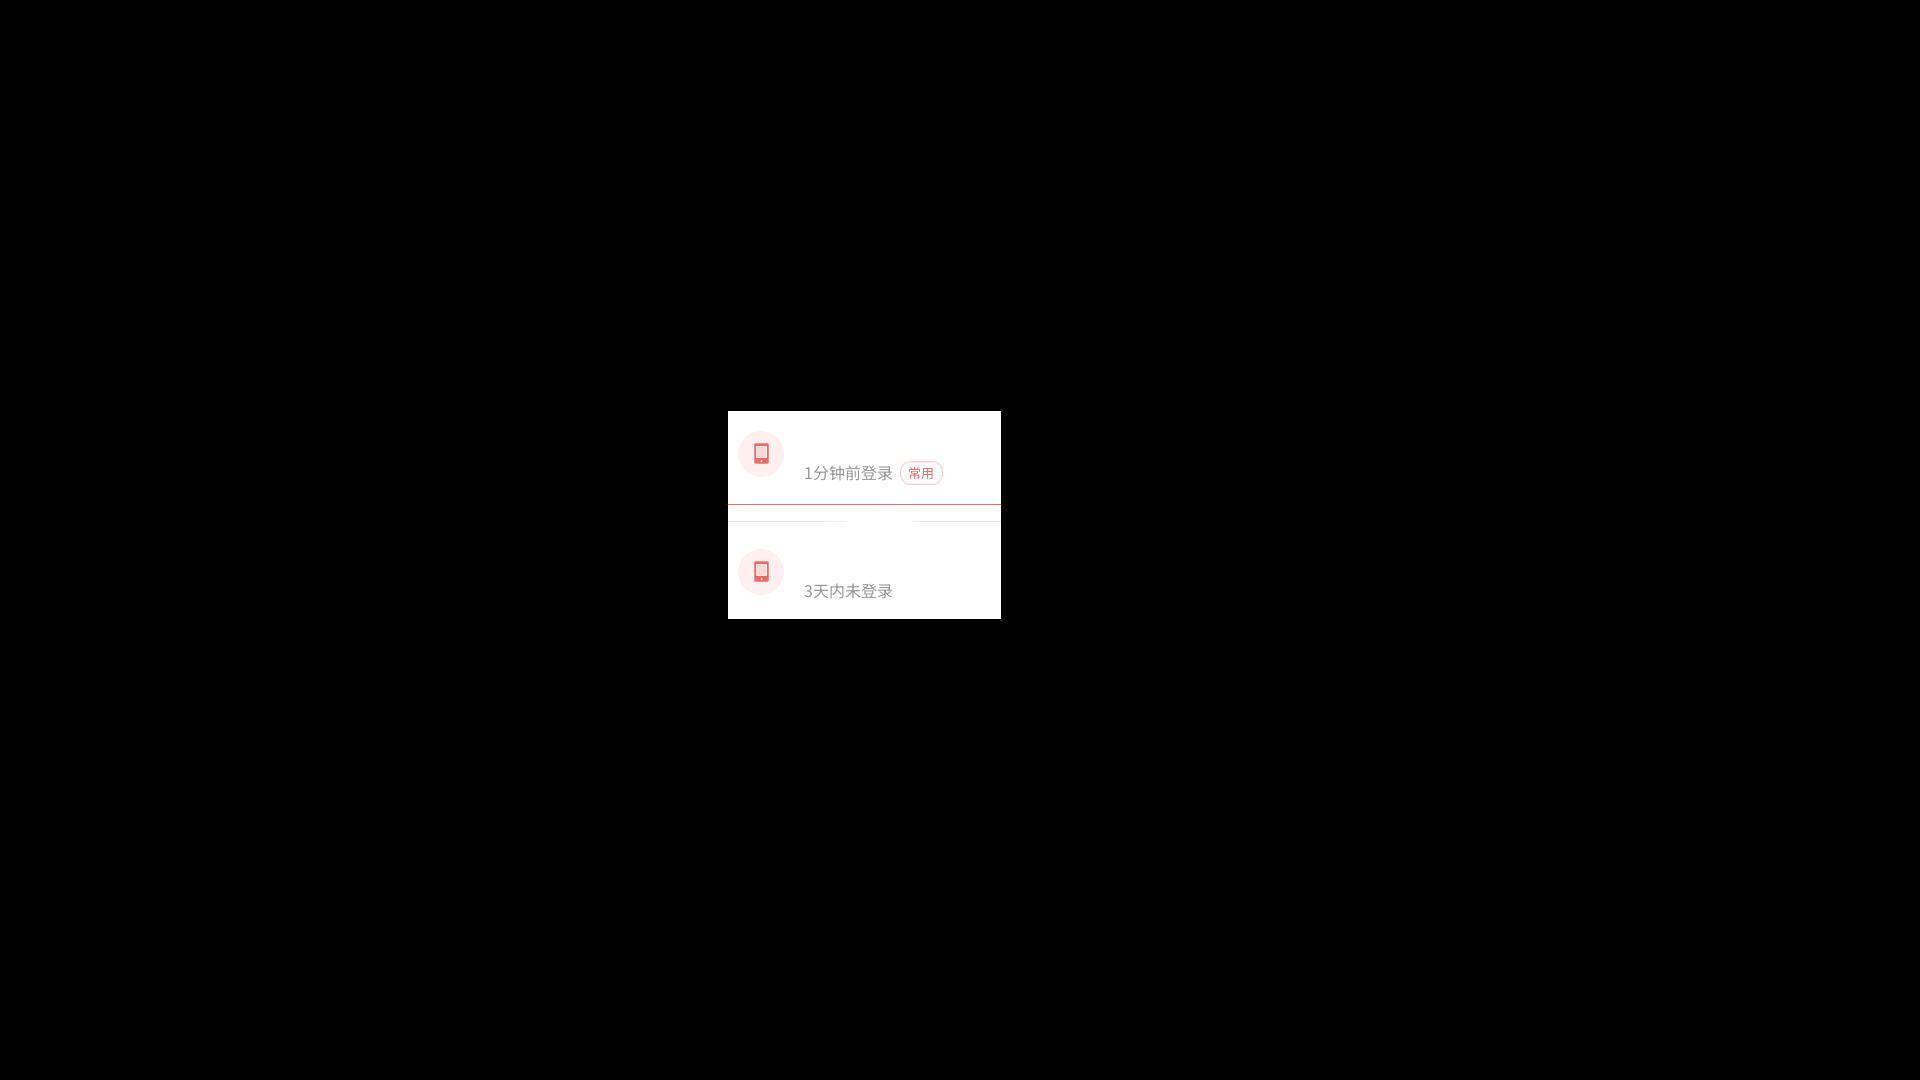
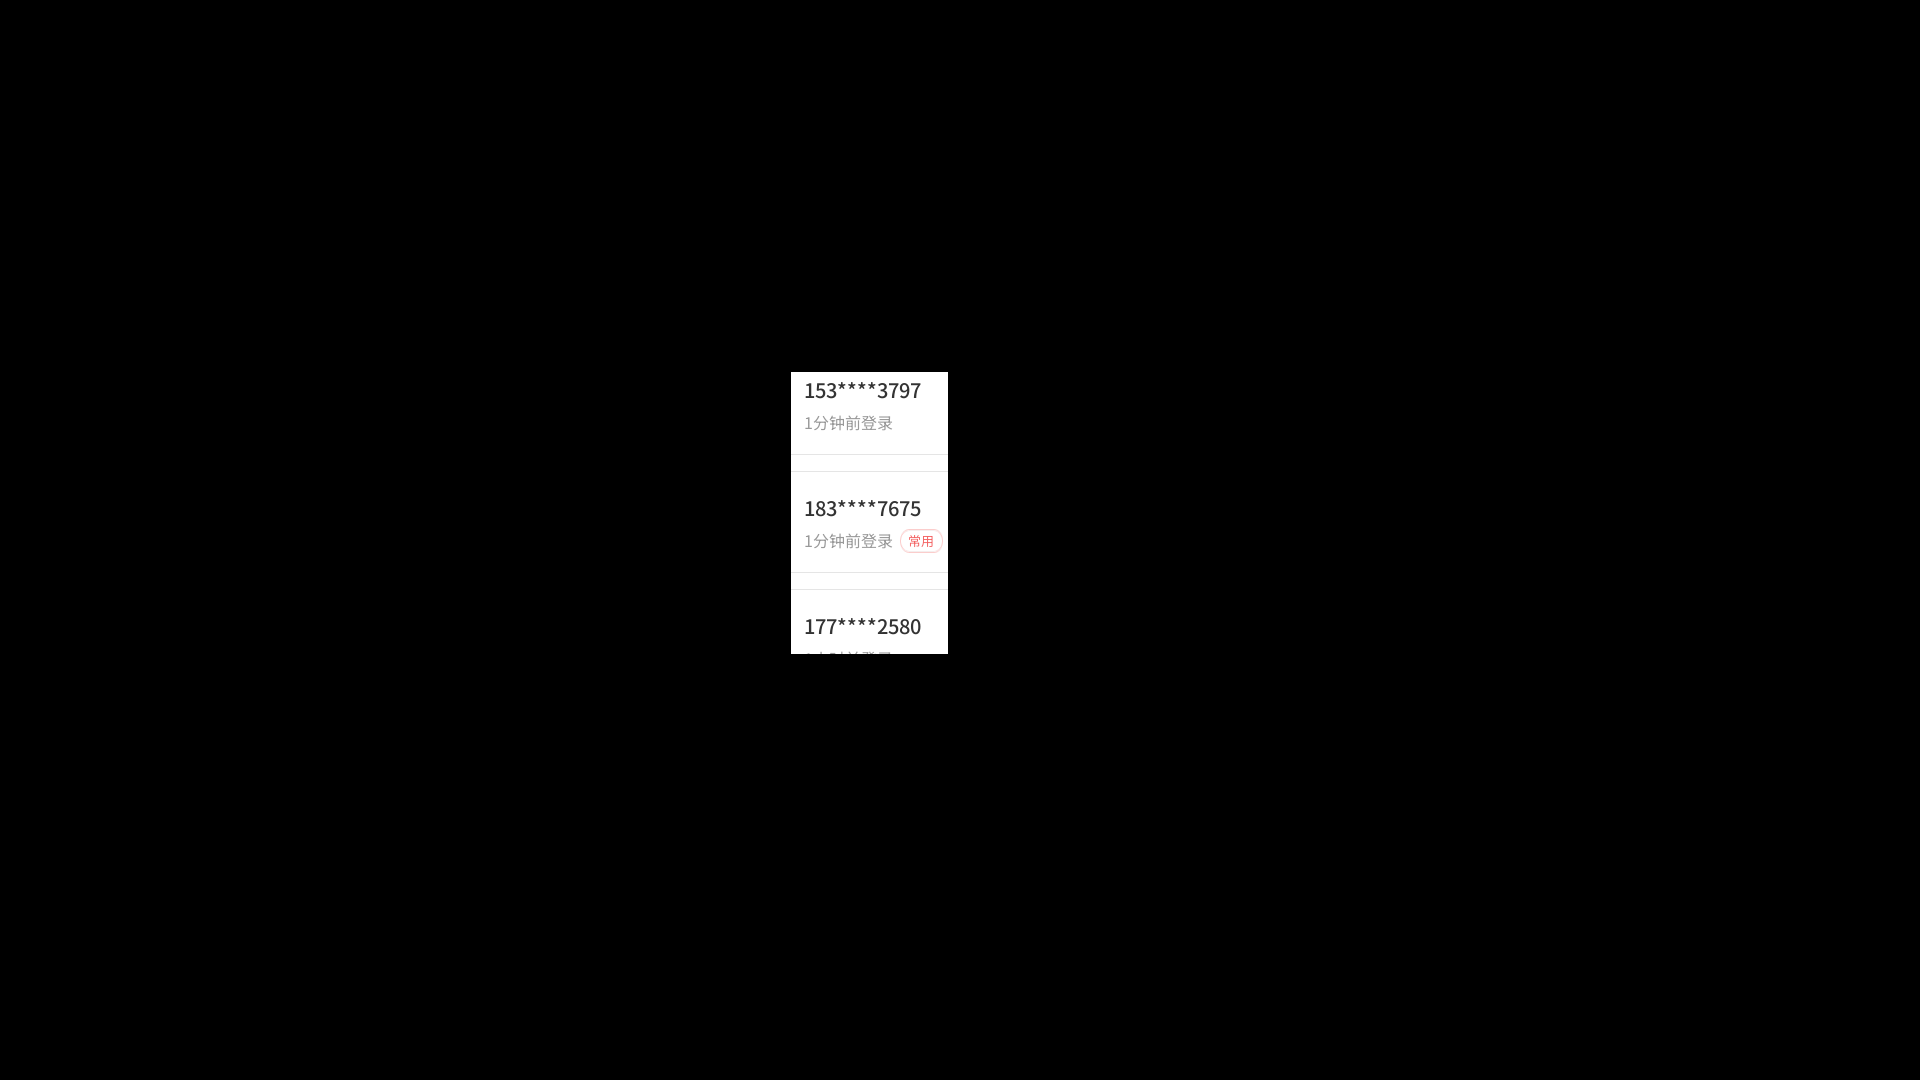
修复多账号切换，账号数量多于2时的bug

Changed region(s): [[0.375, 0.3361, 0.5312, 0.6111]]

diff --git a/whimbox/task/common_task/change_account_task.py b/whimbox/task/common_task/change_account_task.py
@@ -4,7 +4,7 @@ from whimbox.ui.page_assets import *
 from whimbox.ui.ui_assets import *
 from whimbox.interaction.interaction_core import itt
 from whimbox.common.logger import logger
-from whimbox.common.utils.ui_utils import wait_until_appear_then_click
+from whimbox.common.utils.ui_utils import scroll_find_click, wait_until_appear_then_click
 from whimbox.common.utils.img_utils import similar_img
 from whimbox.task.common_task.enter_game_task import EnterGameTask
 
@@ -66,7 +66,7 @@ class ChangeAccountTask(TaskTemplate):
                 else:
                     cap = new_cap
         if len(self.finished_account_list) == 0:
-            wait_until_appear_then_click(TextLoginAccountLoginButton)
+            scroll_find_click(AreaLoginOCR, "登录", need_scroll=False)
             self.current_account = self.account_list[0]
         else:
             cap = itt.capture(anchor_posi = AreaLoginAccountList.position)
@@ -77,7 +77,7 @@ class ChangeAccountTask(TaskTemplate):
                         if key not in self.finished_account_list:
                             AreaLoginAccountList.click(target_box=text_box_dict[key])
                             time.sleep(0.5)
-                            wait_until_appear_then_click(TextLoginAccountLoginButton)
+                            scroll_find_click(AreaLoginOCR, "登录", need_scroll=False)
                             self.current_account = key
                 scroll_posi = (AreaLoginAccountList.position.x2, AreaLoginAccountList.position.y2)
                 itt.move_to(scroll_posi, anchor=AreaLoginAccountList.position.anchor)
@@ -104,5 +104,8 @@ class ChangeAccountTask(TaskTemplate):
         
 
 if __name__ == "__main__":
-    start_game_task = ChangeAccountTask(session_id="debug", account_list=[])
+    account_list=[]
+    finished_account_list=[]
+    start_game_task = ChangeAccountTask(session_id="debug", account_list=account_list, finished_account_list=finished_account_list)
     start_game_task.task_run()
+    print(account_list, finished_account_list)

diff --git a/whimbox/ui/ui_assets.py b/whimbox/ui/ui_assets.py
@@ -30,8 +30,6 @@ TextExitBackLoginButton = Text("返回登录", cap_area = AreaExitBackLoginButto
 ButtonExitLogout = Button(print_log=LOG_WHEN_TRUE, threshold=0.90, hsv_limit=([0,0,200], [179,80,255]), anchor=ANCHOR_TOP_RIGHT)
 ButtonLogin = Button(print_log=LOG_WHEN_TRUE, threshold=0.90, hsv_limit=([0,0,180], [30,255,255]), anchor=ANCHOR_BOTTOM_CENTER)
 AreaLoginAccountList = Area(anchor=ANCHOR_CENTER)
-AreaLoginAccountLoginButton = Area(anchor=ANCHOR_CENTER)
-TextLoginAccountLoginButton = Text("登录", cap_area = AreaLoginAccountLoginButton)
 # 聊天框特征
 IconPageChatFeature = ImgIcon(print_log=LOG_WHEN_TRUE, anchor=ANCHOR_BOTTOM_LEFT)
 ButtonPageChatClose = Button(print_log=LOG_WHEN_TRUE, anchor=ANCHOR_TOP_LEFT)

diff --git a/whimbox/task/daily_task/all_in_one_task.py b/whimbox/task/daily_task/all_in_one_task.py
@@ -395,7 +395,7 @@ class AllInOneTask(TaskTemplate):
 
     @register_step("切换账号")
     def step_change_account(self):
-        if self.game_already_started:
+        if self.game_already_started and len(self.account_list) == 0:
             if not self._quit_to_login():
                 self.log_to_gui("返回登录界面失败，只完成当前账号一条龙", is_error=True)
                 return
